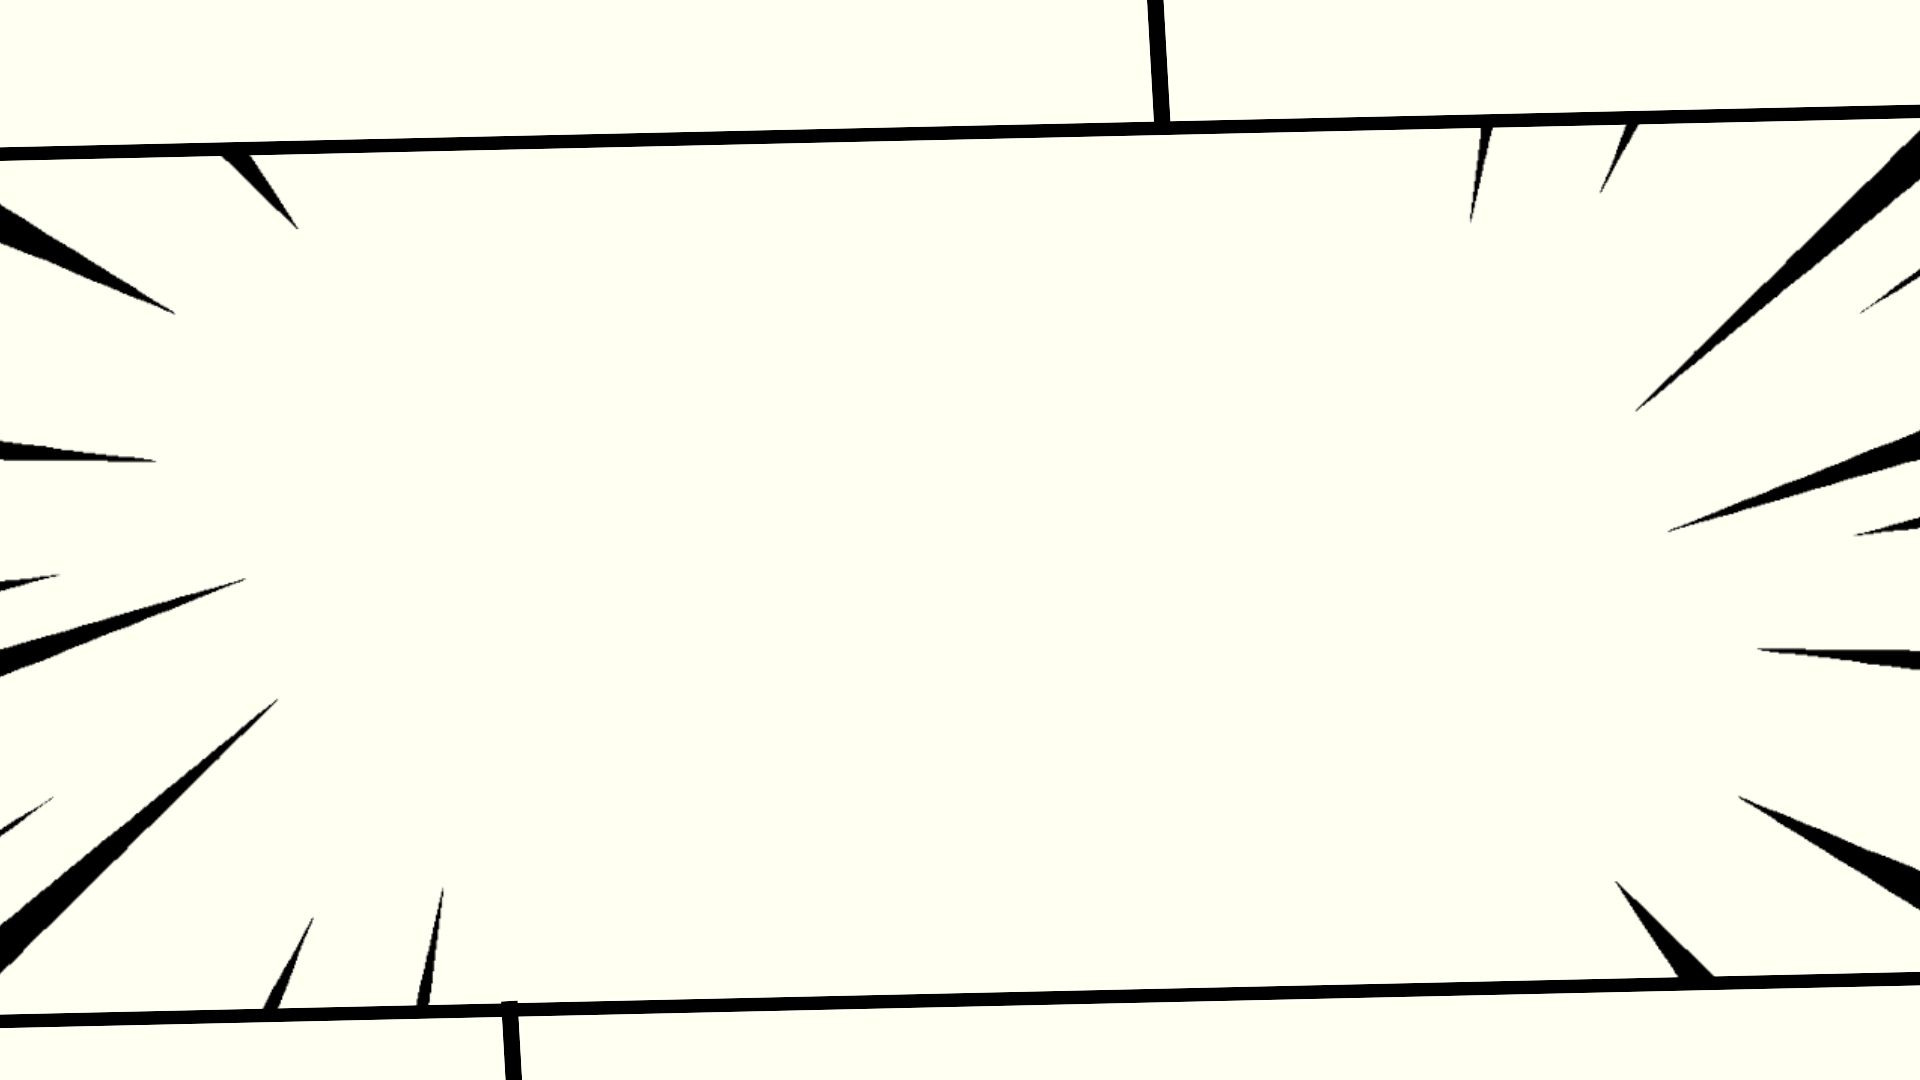
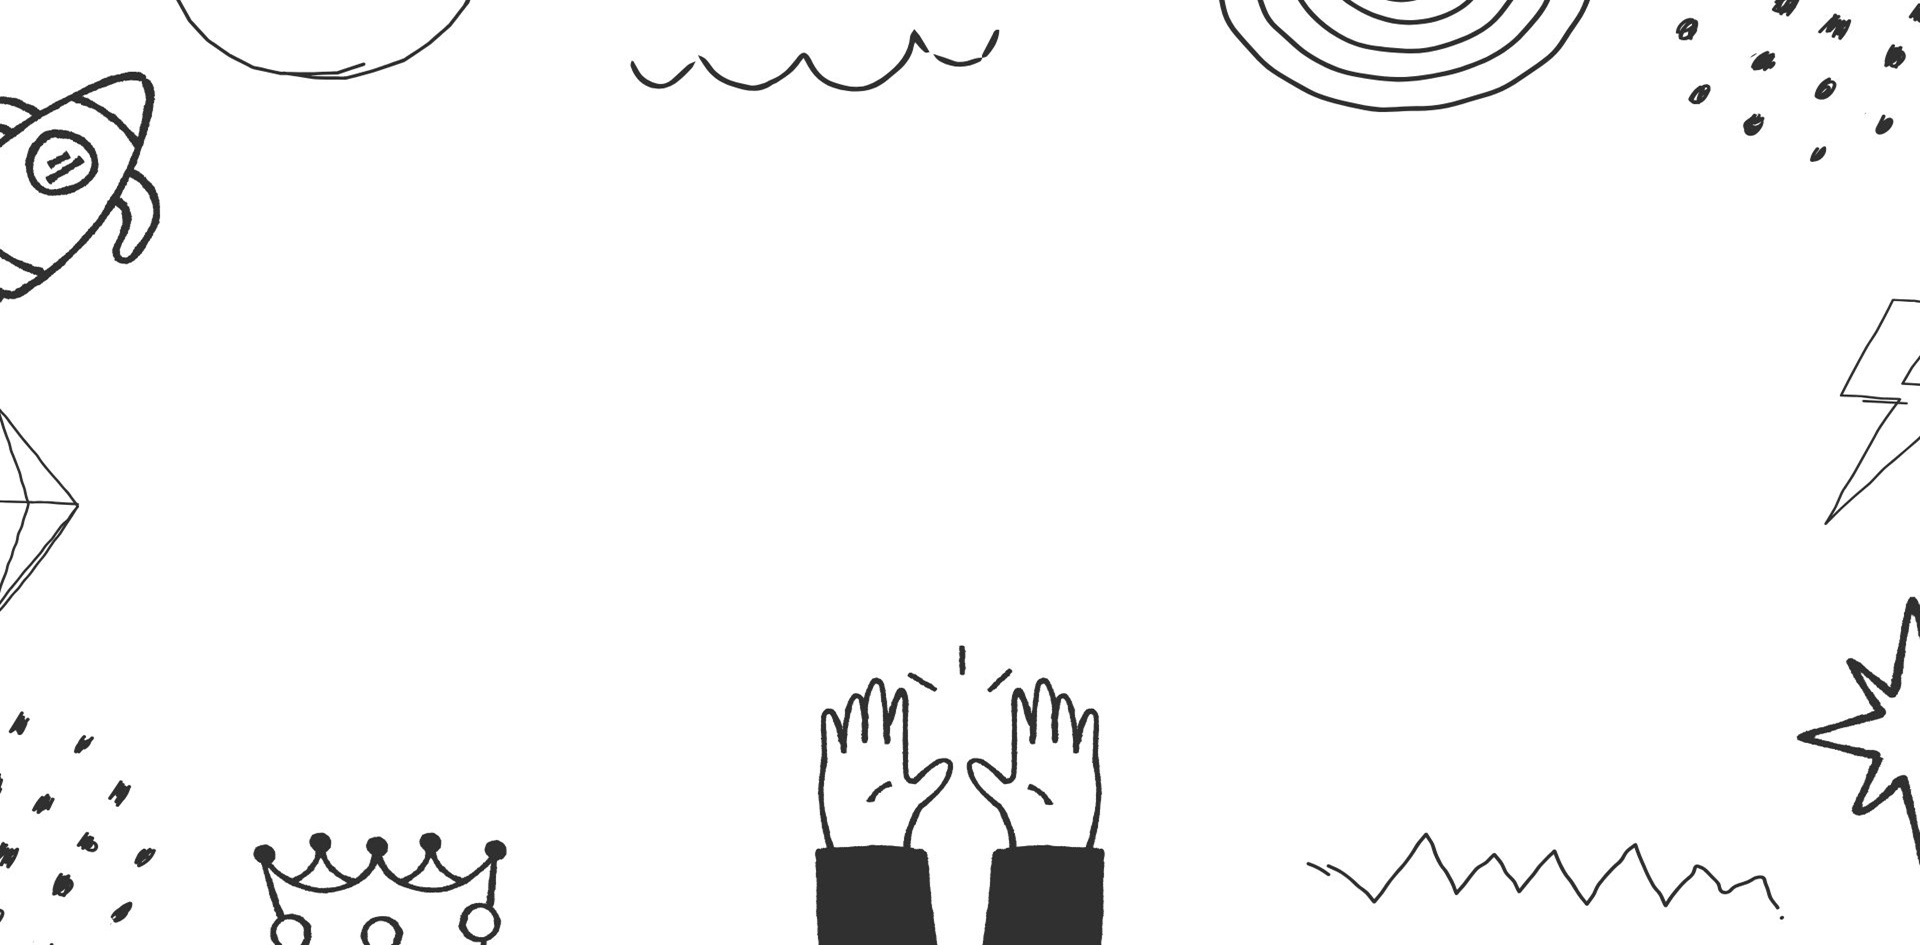
bg test

diff --git a/docs/style.css b/docs/style.css
@@ -32,7 +32,7 @@ a:hover{
 body{
    background-color:aliceblue;
    background-image: url(../image/home_bg.jpg);
-   background-position: center;
+   background-position: top;
    background-size: cover;
 }
 
